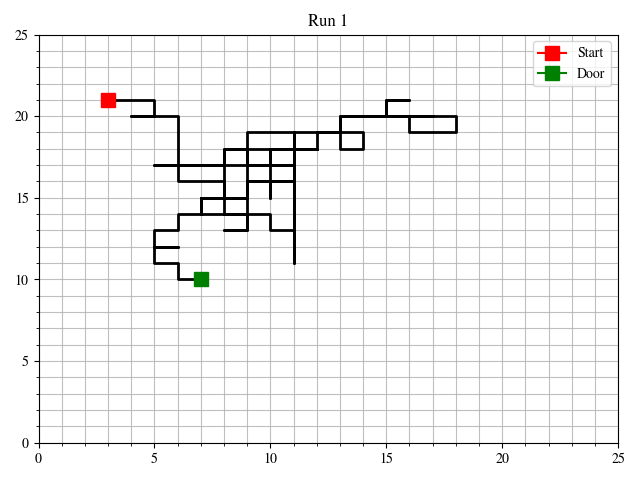
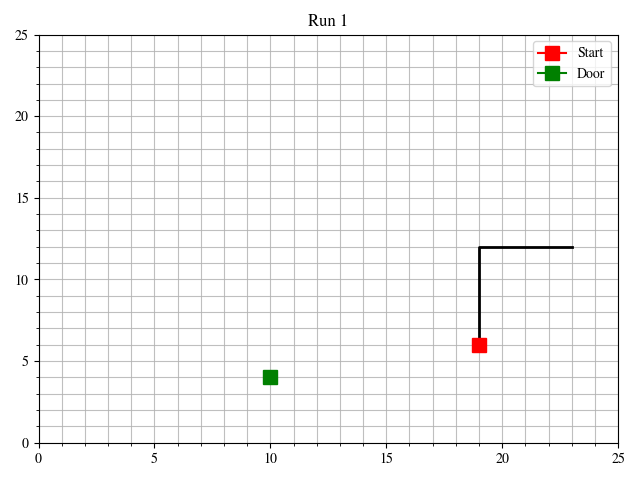
new posterior calculation

diff --git a/HW4/Problem 2/HW4_2.py b/HW4/Problem 2/HW4_2.py
@@ -77,53 +77,11 @@ def update_likelihood(meas, x, y, gg):
 
     return likelihood
 
-def update_post(post, meas, pmeas1, visited, likelihood, r0):
-    gg = len(visited[0])
-    x = r0[0]
-    y = r0[1]
-
-    px1 = 1 / (gg ** 2)
-    if meas == 1:
-        pmeas = px1
-    else:
-        pmeas = 1 - px1
-    # if meas == 1:
-    #     pmeas = pmeas1
-    # else:
-    #     pmeas = 1-pmeas1 
-
-    for i in range(gg): #TODO
-        for j in range(gg):
-            pr0 = visited[i,j]
-            Lr0 = get_Lr0(likelihood, i, j)
-            post[i,j] = Lr0 * pr0 / pmeas
+def update_post(post, likelihood):
+    post = post * likelihood
 
     post = post / np.sum(post) # normalize
     return post
-
-def get_Lr0(likelihood, y, x):
-    y_list, x_list = [y + 1, y - 1], [x + 1, x - 1]
-    p_list = []
-    gg = len(likelihood[0])
-
-    for i in y_list:
-        if 0 <= i < gg:
-            p_list.append(likelihood[i][x])
-    for j in x_list:
-        if 0 <= j < gg:
-            p_list.append(likelihood[y][j])
-
-    Lr0 = sum(p_list) / len(p_list)
-    return Lr0
-
-def update_visited(visited, x, y, sq_unvisited):
-    gg = len(visited[0])
-    visited[x, y] = 0
-    for i in range(gg):
-        for j in range(gg):
-            if visited[i, j] > 0.0001:
-                visited[i, j] = 1 / sq_unvisited
-    return visited
 
 ### u ###
 
@@ -153,32 +111,36 @@ def get_options(x, y, gg):
 
     return u_options
 
-def get_u(post, path, S, u_options, gg, meas_likelihood, visited, sq_unvisited):
+def get_u(post, path, S, u_options, meas_likelihood):
+    gg = len(post[0])
     best_u = np.array([0, 0])
-    max_exp_red_S = 0
+    max_exp_red_S = -float('inf')
+    exp_red_S_l = []
     
     for u in u_options: # cycle through all possible u
         rj = path[-1]+u
 
-        exp_red_S = get_exp_red_S(post, rj, S, gg, meas_likelihood, visited, sq_unvisited)
+        exp_red_S = get_exp_red_S(post, rj, S, meas_likelihood)
+        exp_red_S_l.append(exp_red_S)
 
         if exp_red_S > max_exp_red_S: # keep u with highest expected entropy recduction
             max_exp_red_S = exp_red_S
             best_u = u
+    print(exp_red_S_l)
     return best_u
 
 ### Entropy ###
 
-def get_exp_red_S(post, rj, S, gg, meas_likelihood, visited, sq_unvisited): # TODO
+def get_exp_red_S(post, rj, S, meas_likelihood):
+    gg = len(post[0])
     pmeas1 = meas_likelihood[int(rj[0]), int(rj[1])]
     likelihood0, likelihood1 = update_likelihood(0, rj[0], rj[1], gg), update_likelihood(1, rj[0], rj[1], gg)
-    visited = update_visited(visited, rj[0], rj[1], sq_unvisited - 1)
 
-    post1, post0 = update_post(post, 1, pmeas1, visited, likelihood1, rj), update_post(post, 0, pmeas1, visited, likelihood0, rj)
+    post1, post0 = update_post(post, likelihood1), update_post(post, likelihood0)
 
     S0, S1 = get_S(post0), get_S(post1)
 
-    return pmeas1 * (S1 - S) + (1-pmeas1) * (S0 - S)
+    return pmeas1 * (S - S1) + (1-pmeas1) * (S - S0)
 
 def get_S(prob):
     S = 0
@@ -194,7 +156,7 @@ def get_S(prob):
 def main():
     ### Initialize
     gg = 25
-    eps = 0.1
+    eps = 0.0001
 
     for sim in range(4):
         # Start Locations
@@ -205,43 +167,37 @@ def main():
         path = np.array([start])
         
         likelihood = init_door(door, gg)
-        sq_unvisited = gg ** 2
-        visited = (1 / (gg**2)) * np.ones((gg,gg))
 
         post = (1 / (gg**2)) * np.ones((gg,gg))
         S = get_S(post)
 
         ### Search
         i = 0
-        while S > eps and sq_unvisited > 0 and i < 500:
+        while i < 200:
             if path[-1,0] != door[0] or path[-1,1] != door[1]:
                 # Take binary measurement
                 meas = int(np.random.random() < likelihood[int(path[-1, 0]),int(path[-1, 1])])
                 
                 # Update belief
                 meas_likelihood = update_likelihood(meas, path[-1, 0], path[-1, 1], gg)
-                sq_unvisited = gg ** 2 - len(np.unique(path, axis=0))
-                visited = update_visited(visited, path[-1, 0], path[-1, 1], sq_unvisited)
-                # print(visited)
 
-                post = update_post(post, meas, meas_likelihood[int(path[-1, 0]),int(path[-1, 1])], visited, meas_likelihood, path[-1]) # TODO
+                post = update_post(post, meas_likelihood)
                 
                 u_options = get_options(path[-1,0], path[-1,1], gg)
-
+                # u_options = [[-1, 0], [0, 1]]
                 # Compute Entropy
-                S = get_S(post)
+                # S = get_S(post)
                 print(S)
 
-                # Take next step depending on expected entropy reduction
-                u = get_u(post, path, S, u_options, gg, meas_likelihood, visited, sq_unvisited) # TODO
+                # Take next step based on maximum expected entropy reduction
+                u = get_u(post, path, S, u_options, meas_likelihood)
                 # u = random.choice(u_options)
                 path = np.vstack((path, path[-1] + u))
                 plt.scatter(path[-1,0], path[-1,1])
                 plt.draw()
-                plt.pause(0.01)
                 plt.imshow(post.T)
-
-                #print(path[-1])
+                plt.pause(0.001)
+                # print(path[-1])
             else:
                 break
             i += 1
